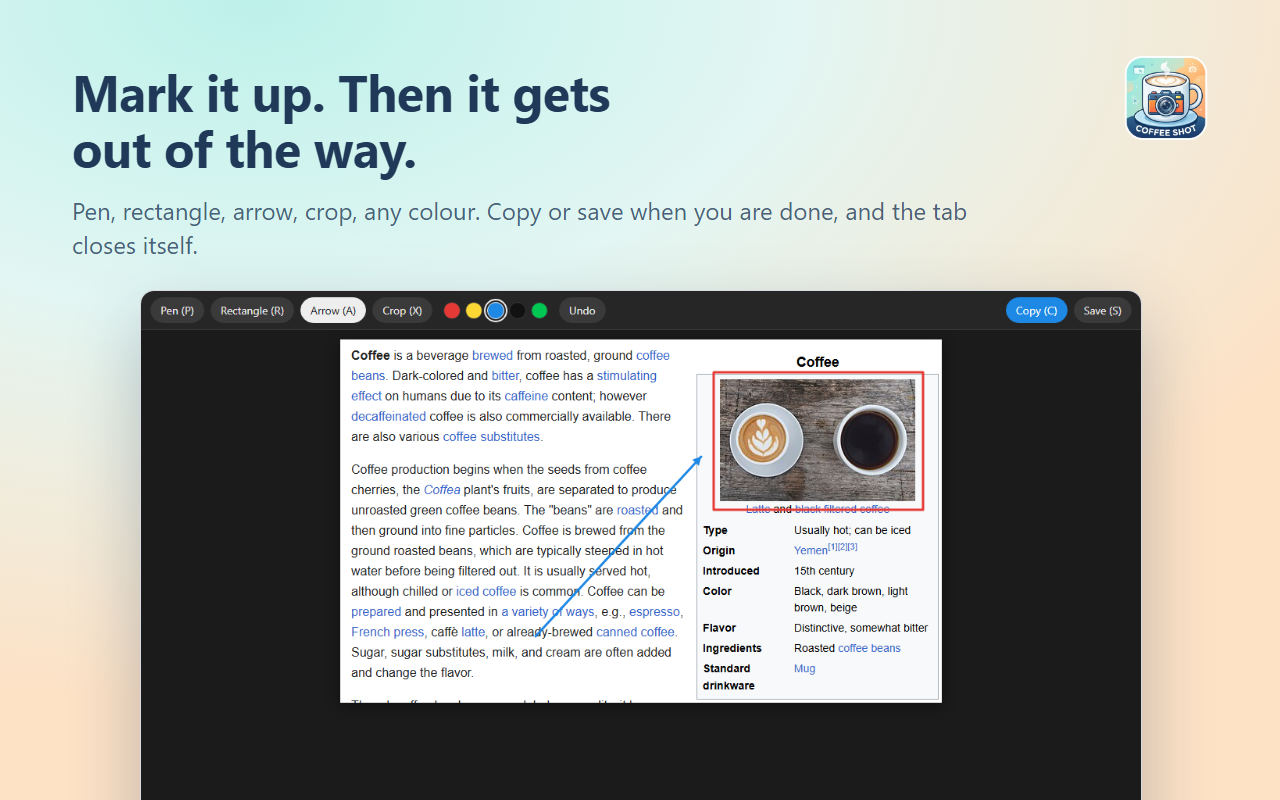
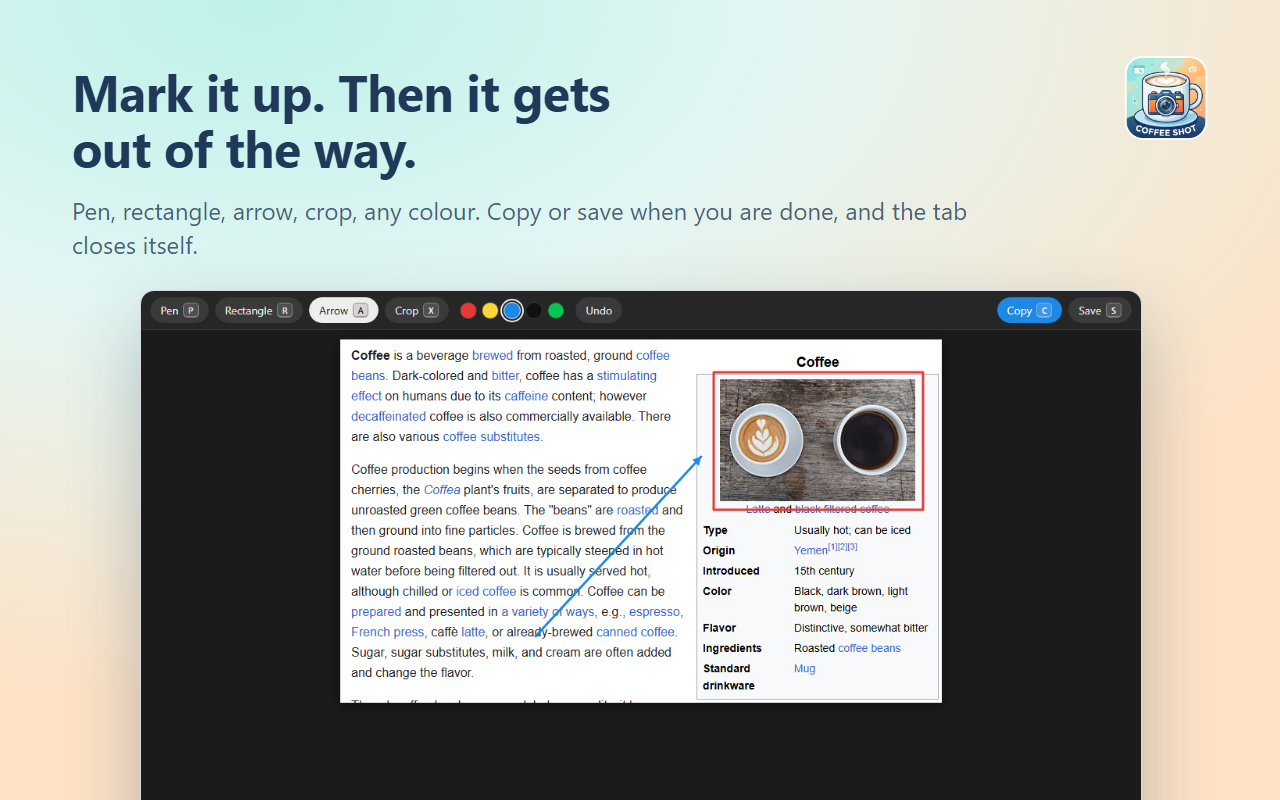
Key hints become keycaps
Every button that named its key in brackets, Copy (C) and the like, now shows a keycap instead: a small rounded key drawn in the text colour of the button it sits on, so it reads the same on the grey, blue, chosen and dimmed buttons and in both colour schemes. The picker pill, the selection toolbar and the result tab all use it, and Esc to cancel gets one too. The keys themselves are unchanged. The store mocks carry the same markup and the store images are re-rendered; the fifth screenshot and the small tile show no toolbar and are unchanged.

Changed region(s): [[0.125, 0.375, 0.4688, 0.4062], [0.7812, 0.375, 0.875, 0.4062]]

diff --git a/capture.js b/capture.js
@@ -89,7 +89,7 @@
     .toast.out { animation: cs-out .3s ease-in both; }
     .bar { padding: 6px; transform-origin: 100% 0;
            animation: cs-pop .2s cubic-bezier(.2,.8,.3,1) both; }
-    .pill button, .bar button { all: initial; font: inherit; color: inherit; background: #444;
+    .pill button, .bar button { all: initial; display: inline-flex; align-items: center; gap: 6px; font: inherit; color: inherit; background: #444;
                                 cursor: pointer; padding: 6px 12px; border-radius: 999px;
                                 transition: background .12s ease, transform .12s ease, opacity .12s ease; }
     .pill button:hover, .bar button:hover { background: #666; }
@@ -100,6 +100,11 @@
     /* The buttons dim, not the bar: cs-pop's fill mode pins the bar's opacity. */
     .bar.busy button { opacity: .6; pointer-events: none; }
     .pill span { opacity: .7; }
+    /* Every key hint is a keycap. It borrows the text colour of the button it sits on,
+       so it reads the same on the grey, blue and dimmed buttons. */
+    kbd { display: inline-block; min-width: 20px; padding: 0 5px; box-sizing: border-box; font: 600 11px/17px system-ui, sans-serif;
+          text-align: center; color: inherit; border-radius: 5px; background: rgba(255,255,255,.14);
+          border: 1px solid rgba(255,255,255,.3); box-shadow: inset 0 -1px 0 rgba(255,255,255,.3); }
     [hidden] { display: none !important; }
     @keyframes cs-fade { from { opacity: 0 } to { opacity: 1 } }
     @keyframes cs-drop { from { opacity: 0; transform: translateY(-12px) } to { opacity: 1; transform: none } }
@@ -134,12 +139,12 @@
       `<canvas></canvas><div class="dim"></div>` +
       `<div class="masks" hidden><div></div><div></div><div></div><div></div></div>` +
       `<div class="sel" hidden></div><div class="size" hidden></div>` +
-      `<div class="bar" hidden><button data-a="copy" class="primary">Copy (C)</button><button data-a="save">Save (S)</button><button data-a="edit">Edit (E)</button></div>` +
+      `<div class="bar" hidden><button data-a="copy" class="primary">Copy <kbd>C</kbd></button><button data-a="save">Save <kbd>S</kbd></button><button data-a="edit">Edit <kbd>E</kbd></button></div>` +
       `<div class="pill">Drag to capture an area` +
       (mode === "pick"
-        ? `<button data-k="f">Full page (F)</button><button data-k="v">Visible tab (V)</button><button data-k="s">Save visible tab (S)</button>`
+        ? `<button data-k="f">Full page <kbd>F</kbd></button><button data-k="v">Visible tab <kbd>V</kbd></button><button data-k="s">Save visible tab <kbd>S</kbd></button>`
         : ``) +
-      `<span>Esc to cancel</span></div>`);
+      `<span><kbd>Esc</kbd> to cancel</span></div>`);
     const canvas = root.querySelector("canvas"), dim = root.querySelector(".dim");
     const sel = root.querySelector(".sel"), size = root.querySelector(".size");
     const masks = root.querySelector(".masks"), mask = masks.children;

diff --git a/result.css b/result.css
@@ -11,7 +11,7 @@ header { position: sticky; top: 0; z-index: 1; display: flex; justify-content: s
 .tools, .actions { display: flex; align-items: center; gap: 8px; }
 /* One shape for every control in the extension: a capsule. The colour
    swatches are the same capsule at 1:1, which is a circle. */
-button { font: inherit; color: var(--fg); background: var(--btn); border: 1px solid var(--line); border-radius: 999px;
+button { display: inline-flex; align-items: center; gap: 6px; font: inherit; color: var(--fg); background: var(--btn); border: 1px solid var(--line); border-radius: 999px;
          padding: 6px 12px; cursor: pointer;
          transition: background .12s ease, border-color .12s ease, transform .12s ease; }
 button:hover { background: var(--btnh); }
@@ -22,6 +22,11 @@ button.on { background: var(--fg); color: var(--bg); border-color: var(--fg); }
 button.primary { background: var(--accent); color: #fff; border-color: var(--accent); }
 button.primary:hover { background: var(--accent-hover); }
 button:disabled { opacity: .5; cursor: default; }
+/* Every key hint is a keycap, drawn in the text colour of the button it sits on, so it
+   reads the same on plain, chosen and primary buttons in both colour schemes. */
+kbd { display: inline-block; min-width: 20px; padding: 0 5px; box-sizing: border-box; font: 600 11px/17px system-ui, sans-serif; text-align: center;
+      border-radius: 5px; background: color-mix(in srgb, currentColor 12%, transparent);
+      border: 1px solid color-mix(in srgb, currentColor 32%, transparent); box-shadow: inset 0 -1px 0 color-mix(in srgb, currentColor 32%, transparent); }
 .colors { display: flex; align-items: center; gap: 6px; margin: 0 6px; }
 .colors > * { width: 22px; height: 22px; padding: 0; border-radius: 50%; border: 1px solid var(--line);
               transition: outline-color .12s ease, transform .12s ease; }

diff --git a/result.html b/result.html
@@ -8,10 +8,10 @@
 <body>
   <header>
     <div class="tools">
-      <button data-tool="pen" class="on">Pen (P)</button>
-      <button data-tool="rect">Rectangle (R)</button>
-      <button data-tool="arrow">Arrow (A)</button>
-      <button data-tool="crop">Crop (X)</button>
+      <button data-tool="pen" class="on">Pen <kbd>P</kbd></button>
+      <button data-tool="rect">Rectangle <kbd>R</kbd></button>
+      <button data-tool="arrow">Arrow <kbd>A</kbd></button>
+      <button data-tool="crop">Crop <kbd>X</kbd></button>
       <span class="colors">
         <button data-color="#e53935" class="on" style="background:#e53935" title="Red"></button>
         <button data-color="#fdd835" style="background:#fdd835" title="Yellow"></button>
@@ -23,8 +23,8 @@
     </div>
     <div class="actions">
       <span id="status"></span>
-      <button id="copy" class="primary" title="Copy to clipboard (Enter or Ctrl+C)" autofocus>Copy (C)</button>
-      <button id="save" title="Save to Downloads (Ctrl+S)">Save (S)</button>
+      <button id="copy" class="primary" title="Copy to clipboard (Enter or Ctrl+C)" autofocus>Copy <kbd>C</kbd></button>
+      <button id="save" title="Save to Downloads (Ctrl+S)">Save <kbd>S</kbd></button>
     </div>
   </header>
   <p id="note" hidden></p>

diff --git a/store/source/tab-tall.html b/store/source/tab-tall.html
@@ -12,10 +12,10 @@
 <body>
   <header>
     <div class="tools">
-      <button data-tool="pen" class="on">Pen (P)</button>
-      <button data-tool="rect">Rectangle (R)</button>
-      <button data-tool="arrow">Arrow (A)</button>
-      <button data-tool="crop">Crop (X)</button>
+      <button data-tool="pen" class="on">Pen <kbd>P</kbd></button>
+      <button data-tool="rect">Rectangle <kbd>R</kbd></button>
+      <button data-tool="arrow">Arrow <kbd>A</kbd></button>
+      <button data-tool="crop">Crop <kbd>X</kbd></button>
       <span class="colors">
         <button data-color="#e53935" class="on" style="background:#e53935" title="Red"></button>
         <button data-color="#fdd835" style="background:#fdd835" title="Yellow"></button>
@@ -27,8 +27,8 @@
     </div>
     <div class="actions">
       <span id="status"></span>
-      <button id="copy" class="primary" title="Copy to clipboard (Enter or Ctrl+C)">Copy (C)</button>
-      <button id="save" title="Save to Downloads (Ctrl+S)">Save (S)</button>
+      <button id="copy" class="primary" title="Copy to clipboard (Enter or Ctrl+C)">Copy <kbd>C</kbd></button>
+      <button id="save" title="Save to Downloads (Ctrl+S)">Save <kbd>S</kbd></button>
     </div>
   </header>
   <p id="note" hidden></p>

diff --git a/store/source/mock-result.html b/store/source/mock-result.html
@@ -12,10 +12,10 @@
 <body>
   <header>
     <div class="tools">
-      <button data-tool="pen">Pen (P)</button>
-      <button data-tool="rect">Rectangle (R)</button>
-      <button data-tool="arrow" class="on">Arrow (A)</button>
-      <button data-tool="crop">Crop (X)</button>
+      <button data-tool="pen">Pen <kbd>P</kbd></button>
+      <button data-tool="rect">Rectangle <kbd>R</kbd></button>
+      <button data-tool="arrow" class="on">Arrow <kbd>A</kbd></button>
+      <button data-tool="crop">Crop <kbd>X</kbd></button>
       <span class="colors">
         <button data-color="#e53935" style="background:#e53935" title="Red"></button>
         <button data-color="#fdd835" style="background:#fdd835" title="Yellow"></button>
@@ -27,8 +27,8 @@
     </div>
     <div class="actions">
       <span id="status"></span>
-      <button id="copy" class="primary" title="Copy to clipboard (Enter or Ctrl+C)">Copy (C)</button>
-      <button id="save" title="Save to Downloads (Ctrl+S)">Save (S)</button>
+      <button id="copy" class="primary" title="Copy to clipboard (Enter or Ctrl+C)">Copy <kbd>C</kbd></button>
+      <button id="save" title="Save to Downloads (Ctrl+S)">Save <kbd>S</kbd></button>
     </div>
   </header>
   <p id="note" hidden></p>

diff --git a/store/source/mock-picker.html b/store/source/mock-picker.html
@@ -23,7 +23,7 @@
   <div class="sel" style="left:250px;top:235px;width:770px;height:465px"></div>
   <div class="size" style="left:250px;top:211px">770 × 465</div>
   <div class="bar" style="right:260px;top:708px">
-    <button class="primary">Copy (C)</button><button>Save (S)</button><button>Edit (E)</button>
+    <button class="primary">Copy <kbd>C</kbd></button><button>Save <kbd>S</kbd></button><button>Edit <kbd>E</kbd></button>
   </div>
 </div>
 </body>

diff --git a/CLAUDE.md b/CLAUDE.md
@@ -67,7 +67,7 @@ Everything crosses `chrome.runtime.sendMessage` with a `type` and the job `id`. 
 ## Conventions the code is built around
 
 - **One shape for every control: a capsule** (`border-radius: 999px`). The colour swatches are the same capsule at 1:1, a circle. This applies to the picker CSS inside `capture.js` and to `result.css` alike.
-- **One key scheme.** Picker: F, V, S, Esc. Selection toolbar: C, S, E, with Esc clearing the selection. Result tab: P, R, A, X for tools, Enter applies a crop or copies, C and S copy and save, Ctrl+Z undoes. Ctrl+C and Ctrl+S always mirror C and S, and buttons show their key in their label. A new action needs a key that fits, and the key list in the manifest's `default_title`, the README and the store copy must follow.
+- **One key scheme.** Picker: F, V, S, Esc. Selection toolbar: C, S, E, with Esc clearing the selection. Result tab: P, R, A, X for tools, Enter applies a crop or copies, C and S copy and save, Ctrl+Z undoes. Ctrl+C and Ctrl+S always mirror C and S, and buttons show their key as a `<kbd>` keycap in their label. The keycap rule lives in both stylesheets, the `CSS` template in `capture.js` and `result.css`, and the store mocks under `store/source/` carry the same markup. A new action needs a key that fits, and the key list in the manifest's `default_title`, the README and the store copy must follow.
 - **Motion runs on entrance only** and is fully disabled under `prefers-reduced-motion`. The picker overlay is torn down synchronously, never faded out, because the next `captureVisibleTab` could catch it.
 - **The page context menu has exactly one item** (`pick`). Chrome collapses two or more of an extension's items into a submenu with no way to opt out. The four modes live on the cup's own menu (`contexts: ["action"]`).
 - **No host permissions, no network, no storage.** Each of the four permissions is justified line by line in `README.md` and `store/description.txt`. Adding one is a product decision, not a code one.
